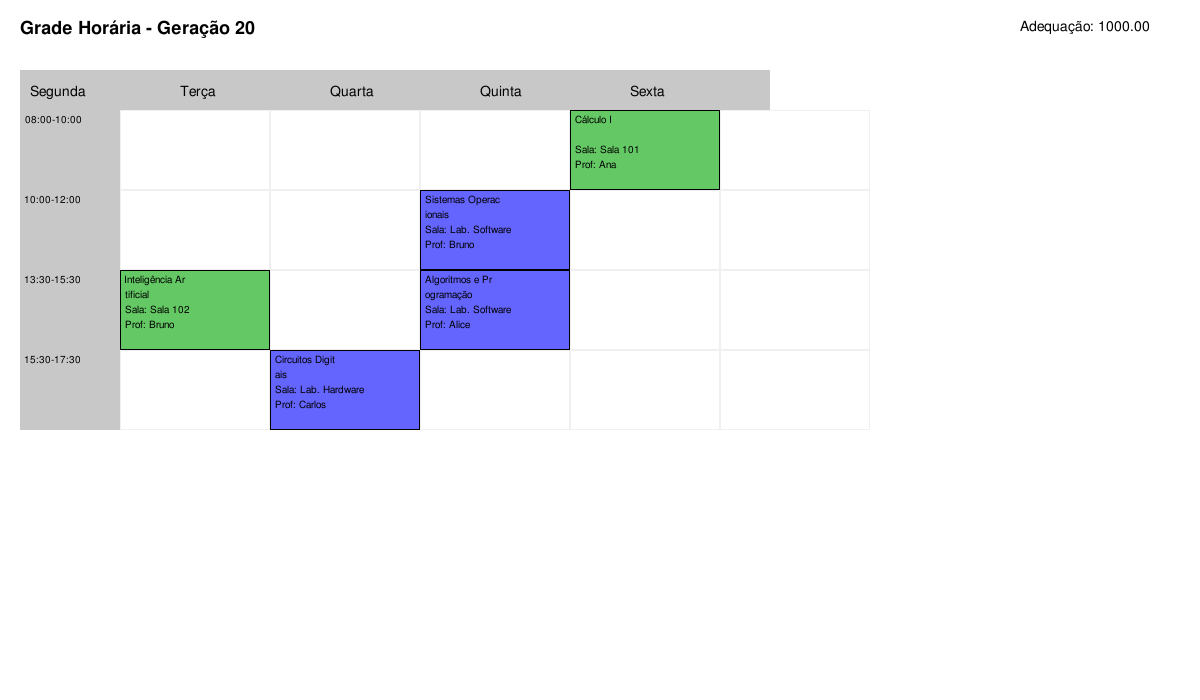
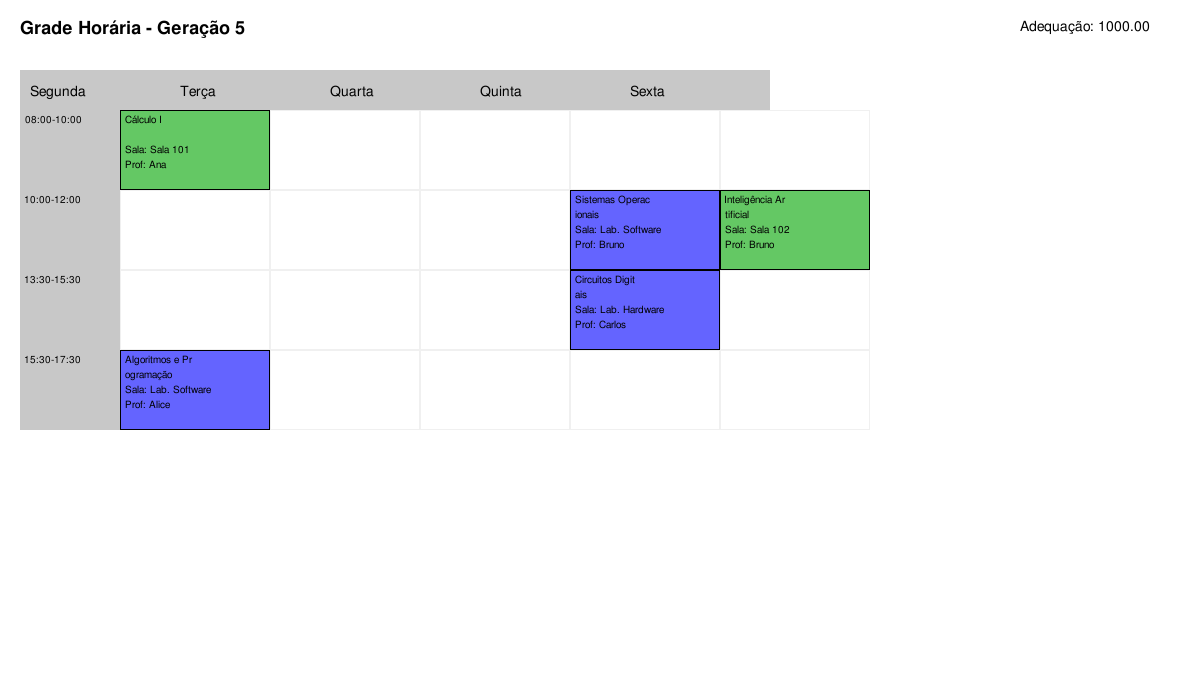
feat: ajusta exibicao dos nomes das disciplinas

Changed region(s): [[0.0925, 0.15, 0.74, 0.63], [0.0925, 0.15, 0.2467, 0.27], [0.185, 0.03, 0.2158, 0.06]]

diff --git a/visualization.py b/visualization.py
@@ -227,18 +227,52 @@ def desenhar_grade(grade: List[Dict[str, Any]], geracao: int, fitness: float) ->
             
             # Renderiza e desenha o texto
             try:
-                # Quebra o texto da disciplina em várias linhas se necessário
-                partes_disciplina = [disciplina[i:i+15] for i in range(0, len(disciplina), 15)]
-                for i, parte in enumerate(partes_disciplina[:2]):  # Máximo de 2 linhas
-                    texto_surface, _ = fonte_pequena.render(parte, Config.PRETO)
-                    janela.blit(texto_surface, (x + 5, y + 5 + i * 15))
+                y_offset = 5
                 
-                # Sala e professor em linhas separadas
-                sala_surface, _ = fonte_pequena.render(f"Sala: {sala}", Config.PRETO)
-                prof_surface, _ = fonte_pequena.render(f"Prof: {professor}", Config.PRETO)
+                # Tamanho da fonte para melhor legibilidade
+                fonte_pequena = pygame.freetype.SysFont('Arial', 10)
                 
-                janela.blit(sala_surface, (x + 5, y + 35))
-                janela.blit(prof_surface, (x + 5, y + 50))
+                # Função para renderizar texto com quebra de linha
+                def render_text(text, max_width, start_y):
+                    nonlocal y_offset
+                    words = text.split()
+                    lines = []
+                    current_line = []
+                    
+                    for word in words:
+                        test_line = ' '.join(current_line + [word])
+                        test_surface, _ = fonte_pequena.render(test_line, Config.PRETO)
+                        if test_surface.get_width() <= max_width - 10:  # 10px de margem
+                            current_line.append(word)
+                        else:
+                            if current_line:
+                                lines.append(' '.join(current_line))
+                            current_line = [word]
+                    
+                    if current_line:
+                        lines.append(' '.join(current_line))
+                    
+                    # Renderiza as linhas
+                    for i, line in enumerate(lines[:3]):  # Máximo de 3 linhas para a disciplina
+                        if (y_offset + i * 15) < Config.ALTURA_CELULA - 30:  # Deixa espaço para sala e professor
+                            text_surface, _ = fonte_pequena.render(line, Config.PRETO)
+                            janela.blit(text_surface, (x + 5, y + y_offset + i * 12))
+                    
+                    return y_offset + len(lines) * 12
+                
+                # Renderiza a disciplina
+                y_offset = render_text(disciplina, Config.LARGURA_CELULA, y_offset) + 5
+                
+                # Renderiza sala e professor em linhas menores
+                fonte_pequena = pygame.freetype.SysFont('Arial', 9)
+                sala_text = f"Sala: {sala}" if len(sala) < 15 else f"Sala: {sala[:12]}..."
+                prof_text = f"Prof: {professor}" if len(professor) < 15 else f"Prof: {professor[:12]}..."
+                
+                sala_surface, _ = fonte_pequena.render(sala_text, Config.PRETO)
+                prof_surface, _ = fonte_pequena.render(prof_text, Config.PRETO)
+                
+                janela.blit(sala_surface, (x + 5, y + Config.ALTURA_CELULA - 25))
+                janela.blit(prof_surface, (x + 5, y + Config.ALTURA_CELULA - 12))
             except Exception as e:
                 print(f"  ERRO ao renderizar texto: {e}")
             

diff --git a/genetic_algorithm.py b/genetic_algorithm.py
@@ -72,6 +72,7 @@ def calcular_fitness(individuo: List[Dict[str, Any]]) -> int:
         - -200 pontos por conflito de sala
         - -300 pontos por sala incorreta para laboratórios
         - -50 pontos por desrespeito à preferência de horário
+        - -150 pontos por ter duas disciplinas no mesmo horário e dia (mesmo em salas diferentes)
     """
     pontos = 1000
     # Verifica conflitos
@@ -87,6 +88,10 @@ def calcular_fitness(individuo: List[Dict[str, Any]]) -> int:
                 aula1["horario"] == aula2["horario"] and 
                 aula1["sala"] == aula2["sala"]):
                 pontos -= 200
+            # Conflito de horário (mesmo dia e horário, mesmo em salas diferentes)
+            if (aula1["dia"] == aula2["dia"] and 
+                aula1["horario"] == aula2["horario"]):
+                pontos -= 150
         # Verifica se a sala está correta para laboratórios
         if (aula1["tipo"] == "laboratorio" and 
             aula1["sala"] != DISCIPLINAS[i]["sala_requerida"]):
